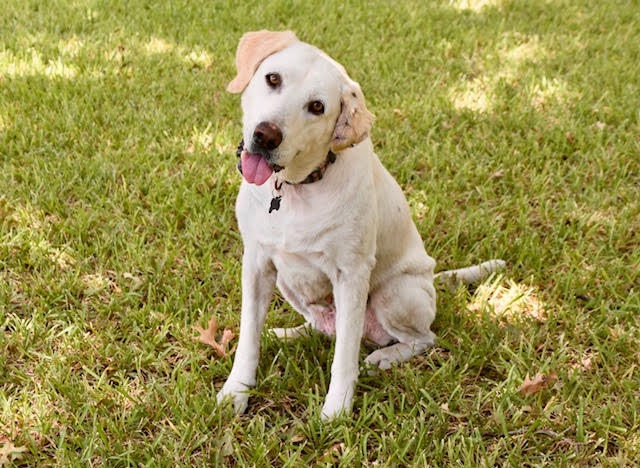
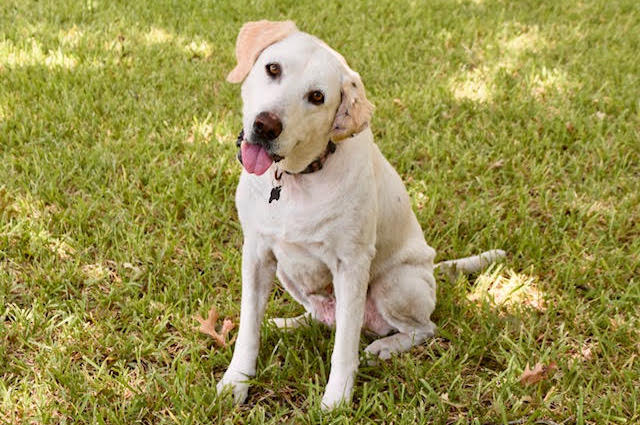
Denise: changed picture layout to circles, reorganized page for better accessibility, added correct video
!

diff --git a/model.html b/model.html
@@ -90,51 +90,109 @@
     <main>
       <h1 class="sr-only">Fashionable Adoption</h1>
       <div id = "main-content-models" class = "main-content alignCenter">
-        <!-- Title: Video -->
+        <!-- Title -->
         <div class = "title">
-          <iframe class = "vid" width="560" height="315" src="https://www.youtube.com/embed/6j7oQletFbc" frameborder="0" allow="autoplay; encrypted-media" allowfullscreen></iframe>
-          <p class = "statement">An adopted pet is forever grateful and will love you beyond your knowledge</p>
+          <h1 class = "models alignCenter">OUR MODELS</h1>
+          <p class = "statement">An adopted pet is forever grateful and will love you beyond your knowledge.</p>
         </div>
 
         <!-- Images -->
-        <h2 class = "models alignCenter">OUR MODELS</h2>
         <section class = "dogs">
           <div class = "container-fluid">
             <div class = "row doggies">
               <!-- dog image * 4 in a row -->
               <div class = "photo-cell photo-pup1 col-xs-12 col-sm-6 col-md-3">
-                <img class = "resp-img" src = "img/dog_model_no_background/Pup_001.png" alt = "light brown and white brown-eyed small dog">
+                <img class = "resp-img" src = "img/the_models/Pup_001.sq.jpg" alt = "light brown and white brown-eyed small dog">
               </div>
               <div class = "photo-cell photo-pup2 col-xs-12 col-sm-6 col-md-3">
-                <img class = "resp-img" src = "img/dog_model_no_background/Pup_002.png" alt = "orange and white brown-eyed small dog">
+                <img class = "resp-img" src = "img/the_models/Pup_002.sq.jpg" alt = "orange and white brown-eyed small dog">
               </div>
               <div class = "photo-cell photo-pup3 col-xs-12 col-sm-6 col-md-3">
-                <img class = "portrait1" src = "img/dog_model_no_background/Pup_003.png" alt = "light brown and white brown-eyed small dog with pointy ears">
+                <img class = "portrait1" src = "img/the_models/Pup_004.sq.jpg" alt = "light brown and white brown-eyed small dog with pointy ears">
               </div>
               <div class = "photo-cell photo-pup6 col-xs-12 col-sm-6 col-md-3">
-                <img class = "portrait2" src = "img/dog_model_no_background/Pup_006.png" alt = "yellow brown-eyed small fluffy terrier dog">
+                <img class = "portrait2" src = "img/the_models/Pup_005.sq.jpg" alt = "yellow brown-eyed small fluffy terrier dog">
               </div>
             </div>
             <div class = "row doggies">
               <!-- dog image * 4 in a row -->
               <div class = "photo-cell photo-pup4 col-xs-12 col-sm-6 col-md-3">
-                <img class = "resp-img" src = "img/dog_model_no_background/Pup_004.png" alt = "yellow brown-eyed large lab dog with tongue sticking out">
+                <img class = "resp-img" src = "img/the_models/Pup_007.sq.jpg" alt = "yellow brown-eyed large lab dog with tongue sticking out">
               </div>
               <div class = "photo-cell photo-pup5 col-xs-12 col-sm-6 col-md-3">
-                <img class = "resp-img" src = "img/dog_model_no_background/Pup_005.png" alt = "small white dark brown-eyed dog">
+                <img class = "resp-img" src = "img/the_models/Pup_008.sq.jpg" alt = "small white dark brown-eyed dog">
               </div>
               <div class = "photo-cell photo-pup7 col-xs-12 col-sm-6 col-md-3">
-                <img class = "resp-img" src = "img/dog_model_no_background/Pup_007.png" alt = "yellow light brown-eyed large dog">
+                <img class = "resp-img" src = "img/the_models/Pup_009.sq.jpg" alt = "yellow light brown-eyed large dog">
               </div>
               <div class = "photo-cell photo-pup10 col-xs-12 col-sm-6 col-md-3">
-                <img class = "resp-img" src = "img/dog_model_no_background/Pup_010.png" alt = "black and white brown-eyed medium dog with pointy ears">
+                <img class = "resp-img" src = "img/the_models/Pup_010.sq.jpg" alt = "black and white brown-eyed medium dog with pointy ears">
               </div>
             </div>
           </div>
         </section>
+        <!-- Video -->
+        <div class = "video">
+          <h1 class = "models alignCenter">SUCCESSFUL ADOPTIONS</h1>
+          <iframe class = "vid" width="560" height="315" src="https://www.youtube.com/embed/boiZ2dJiSZM" frameborder="0" allow="autoplay; encrypted-media" allowfullscreen></iframe>
+        </div>
       </div>
-    </main>
 
+      <!-- Section: Support -->
+      <section id="Support" class="sec-odd alignCenter">
+        <h2>SUPPORT US</h2>
+        <div class="container innerWrapper">
+          <div class="row">
+            <div class="span6" style="float: none; margin: 0 auto;">
+
+              <!-- subsection: Volunteer -->
+              <div class="support-item volunteer col-xs-12 col-sm-4">
+                <h3>Volunteer</h3>
+                <img src="img/volunteer.png" height="150px" width="150px" alt="Volunteer">
+                <p>Are you a fabulous animal lover? We would love to have you join our team for our events and other projects we are working on! Let's help our local animals find their happy homes in a fun, fashionable way! </p>
+                <button type="button" class="support-button"><a href="http://eepurl.com/dp0Xw1">Act Now</a></button>
+              </div>
+
+              <!-- subsection: Donate  -->
+              <div class="support-item donate col-xs-12 col-sm-4">
+                <h3>Donate</h3>
+                <img src="img/donation.png" height="150px" width="150px" alt="Donate">
+                <p>With every generous gift, we are able to create the opportunity for a loving animal to find a home. We assist in funding for animals in need of a little love from a Vet. If you aren't in a position to adopt, you can impact an animal in need by making a donation!</p>
+                <button type="button" class="support-button">Donate</button>
+              </div>
+
+              <!-- subsection: Subscribe -->
+              <div class="support-item subscribe col-xs-12 col-sm-4">
+                <h3>Subscribe</h3>
+                <img src="img/subscribe.png" height="150px" width="150px" alt="Subscribe">
+                <p>Want to know the latest event from Fashionable Adoption? Leave your email and name and we will send our newsletter to you!</p>
+                <!-- Begin MailChimp Signup Form -->
+                <form action="https://fashionableadoptions.us12.list-manage.com/subscribe/post?u=14be354e4b712c89440cfd867&amp;id=171b104ca2" method="post" id="mc-embedded-subscribe-form" name="mc-embedded-subscribe-form" class="validate" target="_blank" novalidate>
+                  <div class="mc-field-group">
+                    <label for="mce-EMAIL">Email</label>
+                    <input type="email" value="" name="EMAIL" class="required email" id="mce-EMAIL">
+                  </div>
+                  <div class="mc-field-group">
+                    <label for="mce-NAME">Name </label>
+                    <input type="text" value="" name="NAME" class="" id="mce-NAME">
+                  </div>
+                  <div id="mce-responses" class="clear">
+                    <div class="response" id="mce-error-response" style="display:none"></div>
+                    <div class="response" id="mce-success-response" style="display:none"></div>
+                  </div>    <!-- real people should not fill this in and expect good things - do not remove this or risk form bot signups-->
+                  <div style="position: absolute; left: -5000px;" aria-hidden="true"><input type="text" name="b_14be354e4b712c89440cfd867_171b104ca2" tabindex="-1" value=""></div>
+                  <div class="clear"><input type="submit" value="Subscribe" name="subscribe" id="mc-embedded-subscribe" class="support-button"></div>
+                </form>
+                <script type='text/javascript' src='//s3.amazonaws.com/downloads.mailchimp.com/js/mc-validate.js'></script>
+                <script type='text/javascript'>(function($) {window.fnames = new Array(); window.ftypes = new Array();fnames[0]='EMAIL';ftypes[0]='email';fnames[1]='NAME';ftypes[1]='text';fnames[2]='LNAME';ftypes[2]='text';fnames[3]='ADDRESS';ftypes[3]='address';fnames[4]='PHONE';ftypes[4]='phone';fnames[5]='BIRTHDAY';ftypes[5]='birthday';}(jQuery));var $mcj = jQuery.noConflict(true);
+                </script>
+                <!-- End MailChimp Signup Form -->
+              </div>
+            </div>
+          </div>
+        </div>
+      </section>
+    </main>
 
       <!-- Footer -->
       <footer class="footer">

diff --git a/css/style.css b/css/style.css
@@ -197,6 +197,11 @@ margin-right:auto;
 	padding-bottom: 8px;
 	display: inline-block;
 	text-align: center;
+	margin-top: 1.5em; 
+}
+
+.video h1 {
+	margin-top: .5em;
 }
 
 .photo-cell {
@@ -206,29 +211,17 @@ margin-right:auto;
 .photo-cell img {
 	width: 98%;
   	display: block;
-  	padding-bottom: 3em;
+  	border-radius: 50%;
+  	padding: 2em;
  }
 
 .dogs {
 	background-color: #D3D3D3;
 }
 
-.portrait1, .portrait2 {
-	padding: 3em;
-}
-
 .statement {
 	text-align: center;
-	padding: 2em;
-	padding-top: 3em;
-}
-
-.photo-pup1, .photo-pup2 {
-	padding-top: 3em;
-}
-
-.photo-pup4 {
-	padding-bottom: 4em;
+	padding: 1.5em;
 }
 
 .vid {
